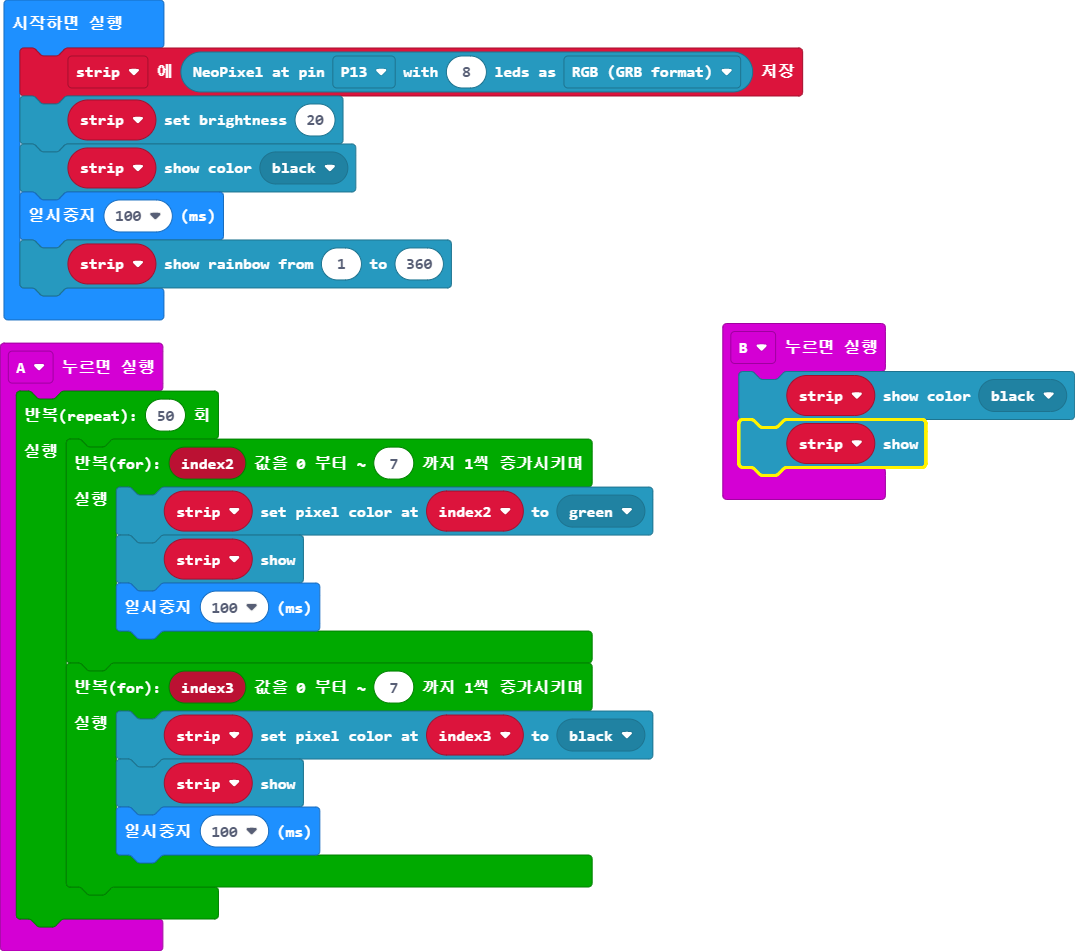
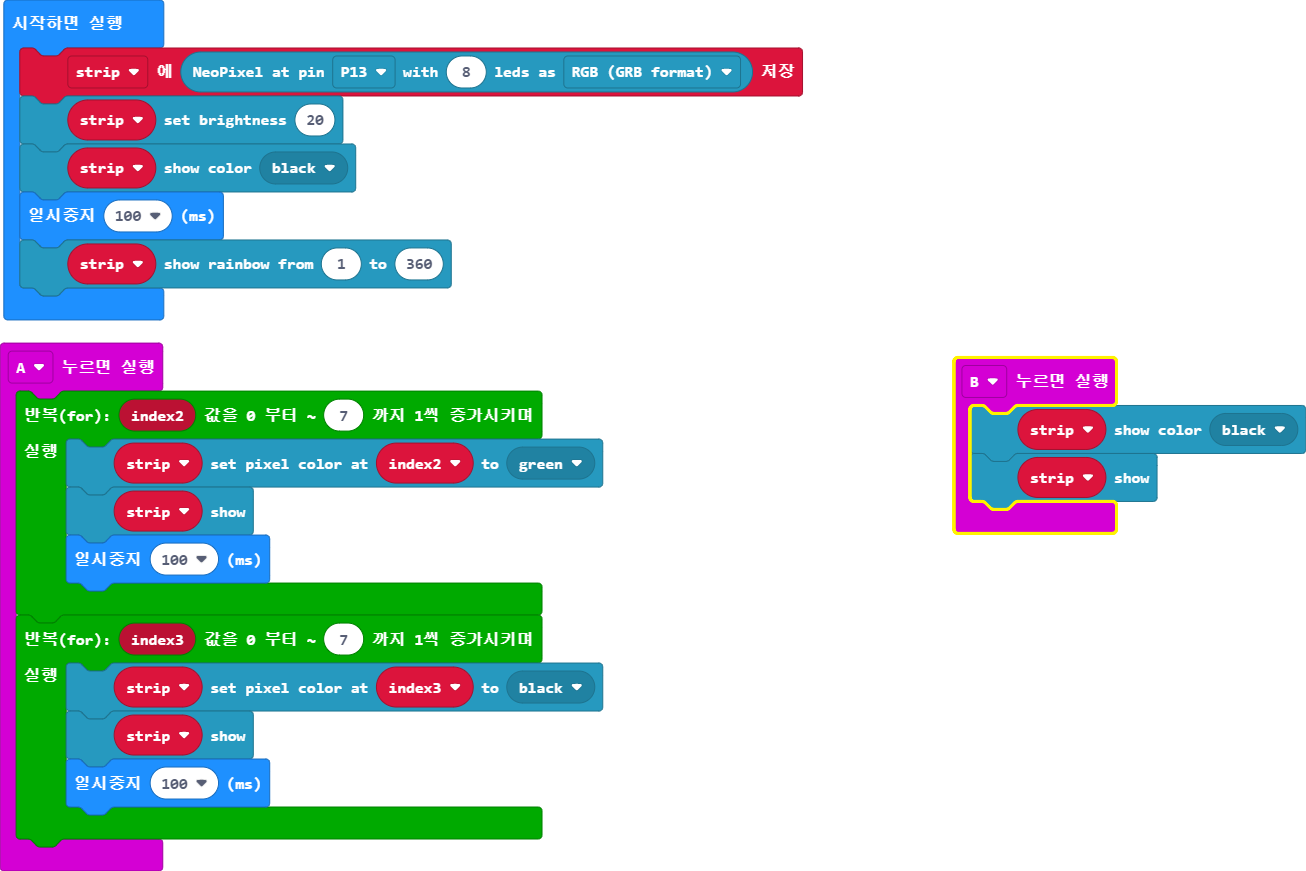
main.blocks, main.ts 업데이트하기

diff --git a/main.ts b/main.ts
@@ -1,15 +1,13 @@
 input.onButtonPressed(Button.A, function () {
-    for (let index = 0; index < 50; index++) {
-        for (let index2 = 0; index2 <= 7; index2++) {
-            strip.setPixelColor(index2, neopixel.colors(NeoPixelColors.Green))
-            strip.show()
-            basic.pause(100)
-        }
-        for (let index3 = 0; index3 <= 7; index3++) {
-            strip.setPixelColor(index3, neopixel.colors(NeoPixelColors.Black))
-            strip.show()
-            basic.pause(100)
-        }
+    for (let index2 = 0; index2 <= 7; index2++) {
+        strip.setPixelColor(index2, neopixel.colors(NeoPixelColors.Green))
+        strip.show()
+        basic.pause(100)
+    }
+    for (let index3 = 0; index3 <= 7; index3++) {
+        strip.setPixelColor(index3, neopixel.colors(NeoPixelColors.Black))
+        strip.show()
+        basic.pause(100)
     }
 })
 input.onButtonPressed(Button.B, function () {
